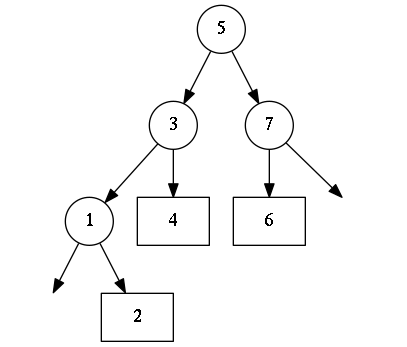
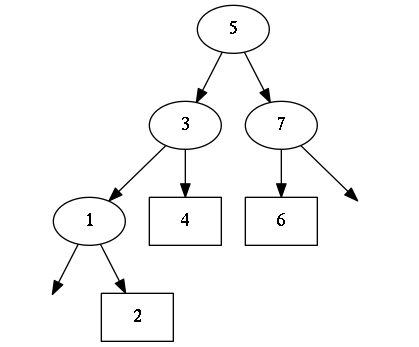
cleanup

diff --git a/README.html b/README.html
@@ -3,7 +3,7 @@
 "http://www.w3.org/TR/xhtml1/DTD/xhtml1-strict.dtd">
 <html xmlns="http://www.w3.org/1999/xhtml" lang="en" xml:lang="en">
 <head>
-<!-- 2016-05-27 Fr 11:28 -->
+<!-- 2016-05-27 Fr 11:34 -->
 <meta  http-equiv="Content-Type" content="text/html;charset=utf-8" />
 <meta  name="viewport" content="width=device-width, initial-scale=1" />
 <title>A generic binary tree in C#</title>
@@ -204,8 +204,7 @@ A simple generic unbalanced binary tree.
       <span style="color: #0000ff;">foreach</span>(<span style="color: #228b22;">T</span> <span style="color: #a0522d;">value</span> <span style="color: #a020f0;">in</span> values) Insert(<span style="color: #228b22;">value</span>);
     }
 
-    <span style="color: #a020f0;">override</span> <span style="color: #a020f0;">public</span> <span style="color: #228b22;">string</span> <span style="color: #0000ff;">ToString</span>()
-    {
+    <span style="color: #a020f0;">override</span> <span style="color: #a020f0;">public</span> <span style="color: #228b22;">string</span> <span style="color: #0000ff;">ToString</span>() {
       <span style="color: #228b22;">string</span> <span style="color: #a0522d;">s</span> = <span style="color: #8b2252;">""</span>;
       <span style="color: #0000ff;">if</span> (left != <span style="color: #008b8b;">null</span>)  s += <span style="color: #a0522d;">left</span>.<span style="color: #0000ff;">ToString</span>();
       s += <span style="color: #a0522d;">string</span>.<span style="color: #0000ff;">Format</span>(<span style="color: #8b2252;">"{0};"</span>, <span style="color: #228b22;">value</span>);
@@ -292,8 +291,8 @@ Cersei;Jamie;Joffrey;Myrcella;Tommen;Tyrion;Tywin;
 
   <span style="color: #a020f0;">private</span> <span style="color: #a020f0;">static</span> <span style="color: #228b22;">void</span> <span style="color: #228b22;">PrintSubTree</span>&lt;<span style="color: #228b22;">T</span>&gt;(<span style="color: #228b22;">BinaryTree</span>&lt;<span style="color: #228b22;">T</span>&gt; <span style="color: #a0522d;">tree</span>, <span style="color: #a020f0;">ref</span> <span style="color: #228b22;">int</span> <span style="color: #a0522d;">empties</span>) {
 
-    <span style="color: #a020f0;">if</span> (<span style="color: #a0522d;">tree</span>.<span style="color: #a0522d;">left</span> != <span style="color: #008b8b;">null</span> || <span style="color: #a0522d;">tree</span>.<span style="color: #a0522d;">right</span> != <span style="color: #008b8b;">null</span>)
-      <span style="color: #228b22;">Console</span>.<span style="color: #0000ff;">WriteLine</span>(<span style="color: #8b2252;">"  \"{0}\" [shape=circle];"</span>, <span style="color: #a0522d;">tree</span>.<span style="color: #a0522d;">value</span>);
+  <span style="color: #a020f0;">if</span> (<span style="color: #a0522d;">tree</span>.<span style="color: #a0522d;">left</span> == <span style="color: #008b8b;">null</span> &amp;&amp; <span style="color: #a0522d;">tree</span>.<span style="color: #a0522d;">right</span> == <span style="color: #008b8b;">null</span>)
+      <span style="color: #228b22;">Console</span>.<span style="color: #0000ff;">WriteLine</span>(<span style="color: #8b2252;">"  \"{0}\" [shape=rectangle];"</span>, <span style="color: #a0522d;">tree</span>.<span style="color: #a0522d;">value</span>);
 
     <span style="color: #0000ff;">if</span> (<span style="color: #a0522d;">tree</span>.<span style="color: #a0522d;">left</span> != <span style="color: #008b8b;">null</span>) {
       <span style="color: #0000ff;">PrintNode</span>(<span style="color: #a0522d;">tree</span>.<span style="color: #a0522d;">value</span>, <span style="color: #a0522d;">tree</span>.<span style="color: #a0522d;">left</span>.<span style="color: #a0522d;">value</span>);
@@ -312,7 +311,6 @@ Cersei;Jamie;Joffrey;Myrcella;Tommen;Tyrion;Tywin;
 
   <span style="color: #a020f0;">public</span> <span style="color: #a020f0;">static</span> <span style="color: #228b22;">void</span> <span style="color: #228b22;">PrintDot</span>&lt;<span style="color: #228b22;">T</span>&gt;(<span style="color: #a020f0;">this</span> <span style="color: #228b22;">BinaryTree</span>&lt;T&gt; tree) {
     <span style="color: #228b22;">Console</span>.<span style="color: #0000ff;">WriteLine</span>(<span style="color: #8b2252;">"digraph G {"</span>);
-    <span style="color: #228b22;">Console</span>.<span style="color: #0000ff;">WriteLine</span>(<span style="color: #8b2252;">"  node[shape=rectangle];"</span>);
     <span style="color: #228b22;">int</span> <span style="color: #a0522d;">empties</span> = 0;
     <span style="color: #0000ff;">PrintSubTree</span>(<span style="color: #228b22;">tree</span>, <span style="color: #a020f0;">ref</span> <span style="color: #228b22;">empties</span>); 
     <span style="color: #228b22;">Console</span>.<span style="color: #0000ff;">WriteLine</span>(<span style="color: #8b2252;">"}"</span>); 
@@ -491,7 +489,7 @@ mono demo/huffman.exe
 </div>
 <div id="postamble" class="status">
 <p class="author">Author: thomas</p>
-<p class="date">Created: 2016-05-27 Fr 11:28</p>
+<p class="date">Created: 2016-05-27 Fr 11:34</p>
 <p class="validation"><a href="http://validator.w3.org/check?uri=referer">Validate</a></p>
 </div>
 </body>

diff --git a/src/binarytreeextensions.cs b/src/binarytreeextensions.cs
@@ -13,8 +13,8 @@ public static class BinaryTreeExtensions {
 
   private static void PrintSubTree<T>(BinaryTree<T> tree, ref int empties) {
 
-    if (tree.left != null || tree.right != null)
-      Console.WriteLine("  \"{0}\" [shape=circle];", tree.value);
+  if (tree.left == null && tree.right == null)
+      Console.WriteLine("  \"{0}\" [shape=rectangle];", tree.value);
 
     if (tree.left != null) {
       PrintNode(tree.value, tree.left.value);
@@ -33,7 +33,6 @@ public static class BinaryTreeExtensions {
 
   public static void PrintDot<T>(this BinaryTree<T> tree) {
     Console.WriteLine("digraph G {");
-    Console.WriteLine("  node[shape=rectangle];");
     int empties = 0;
     PrintSubTree(tree, ref empties); 
     Console.WriteLine("}"); 

diff --git a/src/binarytree.cs b/src/binarytree.cs
@@ -33,8 +33,7 @@ using System.Collections.Generic;
       foreach(T value in values) Insert(value);
     }
 
-    override public string ToString()
-    {
+    override public string ToString() {
       string s = "";
       if (left != null)  s += left.ToString();
       s += string.Format("{0};", value);

diff --git a/README.md b/README.md
@@ -54,8 +54,7 @@ A simple generic unbalanced binary tree.
           foreach(T value in values) Insert(value);
         }
     
-        override public string ToString()
-        {
+        override public string ToString() {
           string s = "";
           if (left != null)  s += left.ToString();
           s += string.Format("{0};", value);
@@ -120,8 +119,8 @@ A simple generic unbalanced binary tree.
     
       private static void PrintSubTree<T>(BinaryTree<T> tree, ref int empties) {
     
-        if (tree.left != null || tree.right != null)
-          Console.WriteLine("  \"{0}\" [shape=circle];", tree.value);
+      if (tree.left == null && tree.right == null)
+          Console.WriteLine("  \"{0}\" [shape=rectangle];", tree.value);
     
         if (tree.left != null) {
           PrintNode(tree.value, tree.left.value);
@@ -140,7 +139,6 @@ A simple generic unbalanced binary tree.
     
       public static void PrintDot<T>(this BinaryTree<T> tree) {
         Console.WriteLine("digraph G {");
-        Console.WriteLine("  node[shape=rectangle];");
         int empties = 0;
         PrintSubTree(tree, ref empties); 
         Console.WriteLine("}"); 
